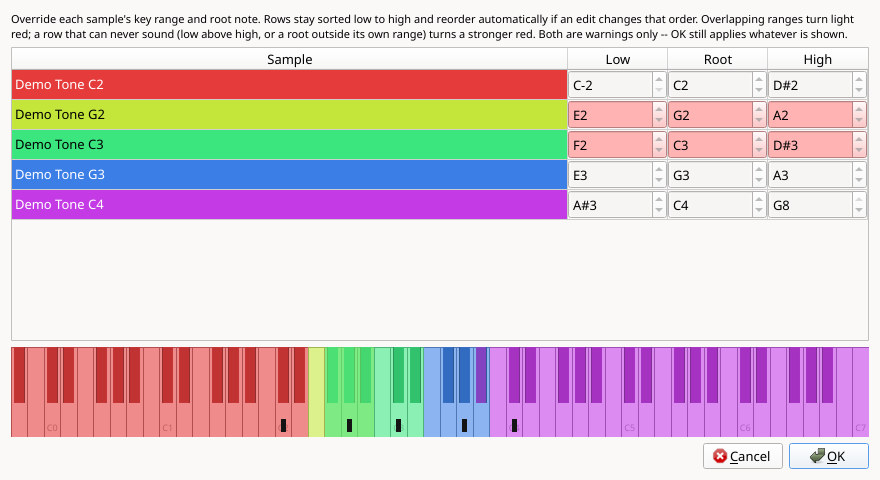
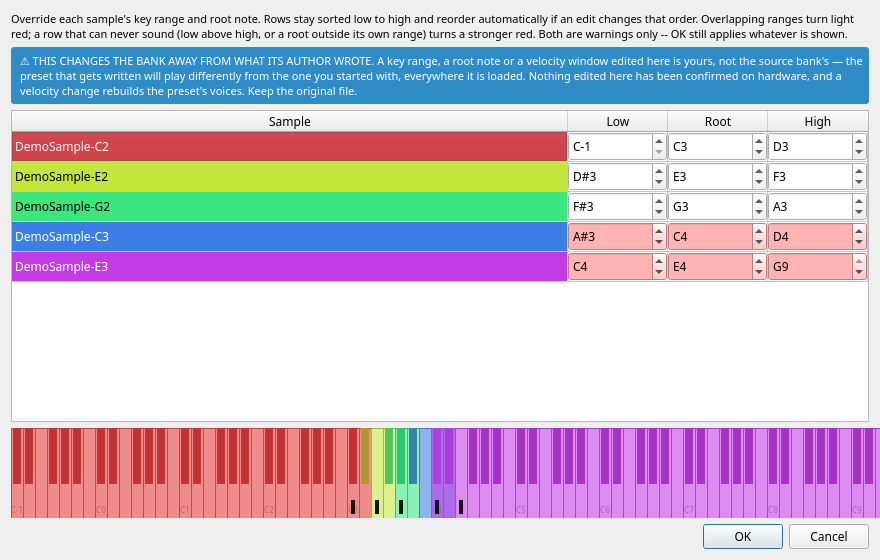
tools: 09_sample_placement gets the recipe it never had
Every other picture in `docs/screenshots/` that this branch's dialog changes
touch had a generator. This one did not: it was captured by hand, which is the
fault this file's own docstring names as the reason `02_new_bank.png` went
stale twice -- and `shot_placement`'s comment referred to it by name as if a
recipe existed. A picture with no recipe drifts the moment the code moves, and
this branch moved the dialog.

So the shot drives `_on_adjust_placement_clicked()` for real, against the same
demo folder the import would read and through the same
`sampledir_import.parse_preview` call `MainWindow` makes, with `exec()`
captured rather than blocked. Re-implementing what the handler builds would
have reproduced the drift in a new place.

`show_velocity` is deliberately left to the handler: the demo tones are
single-layer, so the columns are absent, which is the plain four-column matrix
this shot is meant to show.

The overlapping rows in the caption are MANUFACTURED, by driving the spinboxes
the way a user's arrow-press does, so the tint the caption promises is in the
picture. Left to chance it would quietly stop appearing one day, which is the
same failure as a stale screenshot and much harder to notice.

diff --git a/tools/make_screenshots.py b/tools/make_screenshots.py
@@ -268,6 +268,100 @@ def shot_placement(app, win) -> None:
     dialog.close()
 
 
+def shot_sample_placement(app, win) -> None:
+    """09_sample_placement -- Adjust Sample Placement inside a folder import.
+
+    THE HANDLER IS DRIVEN, not re-implemented. This shot had no recipe at all
+    -- it was taken by hand, which is the drift this file exists to stop, and
+    `shot_placement`'s own comment refers to it by name as if a recipe existed.
+    Building the dialog by hand here would have reproduced exactly the fault
+    the generator documents: a picture that can drift from the code it shows.
+    So `_on_adjust_placement_clicked()` runs for real, against the demo folder
+    the import would actually read, and `exec()` is captured rather than
+    blocked -- same reason as the QMessageBox stub.
+
+    `show_velocity` is NOT set: the handler decides it, from whether the
+    folder has velocity layers. The demo tones are single-layer, so the
+    columns are absent, which is what this shot is meant to show -- the plain
+    Sample/Low/Root/High matrix before any velocity work existed.
+    """
+    from PySide6.QtWidgets import QDialog
+
+    from vinsamlib.build import sampledir_import
+    from vinsamlib.ui.sample_placement_dialog import SamplePlacementDialog
+    from vinsamlib.ui.sampledir_import_dialog import SampleDirImportDialog
+
+    src = SCRATCH / "Demo Multisample"
+    if not src.is_dir():
+        print("  SKIPPED 09_sample_placement: the demo folder is gone")
+        return
+
+    captured: list = []
+    real_exec = SamplePlacementDialog.exec
+
+    def _capture(self, *a, **k):
+        captured.append(self)
+        return QDialog.DialogCode.Rejected
+    SamplePlacementDialog.exec = _capture
+
+    outer = None
+    try:
+        outer = SampleDirImportDialog(
+            win,
+            locked_format="E4B",
+            # The same call `MainWindow._start_sample_import` makes, so the
+            # rows, the octave and the velocity decision are the product's.
+            placement_loader=lambda octave: sampledir_import.parse_preview(
+                str(src), octave),
+            source_text=f"{len(TONES)} file(s) from Demo Multisample")
+        outer._on_adjust_placement_clicked()
+        if not captured:
+            print("  SKIPPED 09_sample_placement: the handler opened no dialog")
+            return
+        dialog = captured[0]
+        _overlap_two_rows(dialog)
+        dialog.resize(880, 560)
+        dialog.show()
+        _settle(app)
+        _grab(dialog, "09_sample_placement")
+        dialog.close()
+    finally:
+        SamplePlacementDialog.exec = real_exec
+        if outer is not None:
+            outer.close()
+
+
+def _overlap_two_rows(dialog) -> None:
+    """Make the last two rows overlap, so the warning tint is in the picture.
+
+    The caption claims two rows have been edited to overlap and their note
+    fields tinted light red, which is the thing worth showing: it is the only
+    state in which the dialog is telling the user something. Left to chance it
+    would not appear at all, and a shot that silently stopped demonstrating
+    the warning is exactly how `02_new_bank.png` went stale twice.
+
+    Done through the spinboxes rather than by writing the table directly, so
+    the repaint that tints the row is the product's own.
+    """
+    table = dialog._table
+    rows = table.rowCount()
+    if rows < 2:
+        return
+    # Column 1 is Low; the dialog installs the spinboxes as cell widgets and
+    # wires each one to the product's own repaint, so setting a value here is
+    # the same thing a user pressing an arrow does.
+    lower = table.cellWidget(rows - 2, 1)
+    upper = table.cellWidget(rows - 1, 1)
+    if lower is None or upper is None:
+        print("  (09: no spinboxes to overlap; shot without the warning tint)")
+        return
+    lo = lower.value()
+    if upper.value() >= lo:
+        upper.setValue(min(lo + 2, upper.maximum()))
+    else:
+        lower.setValue(max(upper.value() - 2, lower.minimum()))
+
+
 def shot_favourites(app, win) -> None:
     """13_favourites -- a pasted list of hardware preset numbers."""
     from vinsamlib.ui.favourites_dialog import FavouritesDialog
@@ -429,6 +523,7 @@ ALL = {"02_new_bank": shot_new_bank,
        "05_convert_options": shot_convert_options,
        "06_settings": shot_settings,
        "06b_settings_audition": shot_settings_audition,
+       "09_sample_placement": shot_sample_placement,
        "12_bank_placement": shot_placement,
        "13_favourites": shot_favourites,
        "14_akai_partitions": shot_akai_partitions}
